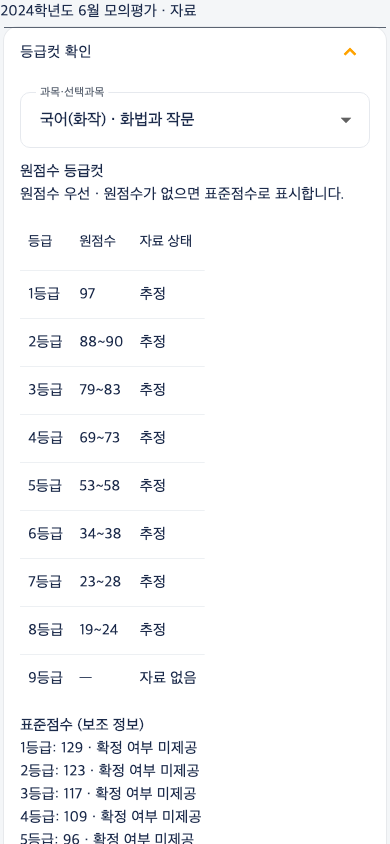
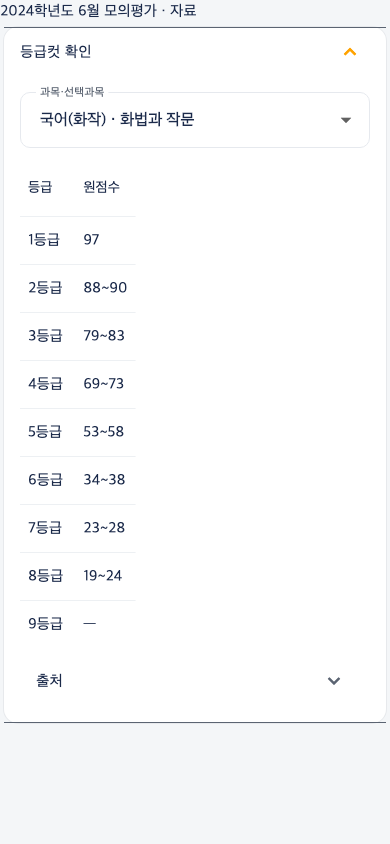
fix: simplify cutoff display and clarify shared math release coverage

diff --git a/lib/features/exams/cutoffs/grade_cutoff_panel.dart b/lib/features/exams/cutoffs/grade_cutoff_panel.dart
@@ -74,10 +74,7 @@ class _GradeCutoffPanelState extends ConsumerState<GradeCutoffPanel> {
                       : selected;
                   final chosen = rows.where((r) => r.key == key).toList()
                     ..sort((a, b) => a.grade.compareTo(b.grade));
-                  final scoreTypes = chosen
-                      .where((r) => r.scoreType != '자료 없음')
-                      .map((r) => r.scoreType)
-                      .toSet();
+                  final rawTable = chosen.any((r) => r.hasRaw);
                   if (chosen.isNotEmpty) {
                     WidgetsBinding.instance.addPostFrameCallback((_) {
                       if (mounted && expanded) record(chosen.first);
@@ -104,27 +101,18 @@ class _GradeCutoffPanelState extends ConsumerState<GradeCutoffPanel> {
                       ),
                       if (chosen.isNotEmpty) ...[
                         const SizedBox(height: 12),
-                        Text(
-                          '${scoreTypes.isEmpty ? '자료 없음' : scoreTypes.join(' · ')} 등급컷',
-                          style: const TextStyle(fontWeight: FontWeight.bold),
-                        ),
-                        const Text('원점수 우선 · 원점수가 없으면 표준점수로 표시합니다.'),
-                        const SizedBox(height: 8),
                         SingleChildScrollView(
                           scrollDirection: Axis.horizontal,
                           child: DataTable(
-                            columnSpacing: 16,
+                            columnSpacing: 20,
                             horizontalMargin: 8,
                             columns: [
                               const DataColumn(label: Text('등급')),
                               DataColumn(
-                                label: Text(
-                                  scoreTypes.length == 1
-                                      ? scoreTypes.first
-                                      : '점수',
-                                ),
+                                label: Text(rawTable ? '원점수' : '표준점수'),
                               ),
-                              const DataColumn(label: Text('자료 상태')),
+                              if (!rawTable)
+                                const DataColumn(label: Text('추정 원점수')),
                             ],
                             rows: [
                               for (final r in chosen)
@@ -133,75 +121,50 @@ class _GradeCutoffPanelState extends ConsumerState<GradeCutoffPanel> {
                                     DataCell(Text('${r.grade}등급')),
                                     DataCell(
                                       Text(
-                                        scoreTypes.length == 1
-                                            ? r.score
-                                            : '${r.scoreType} ${r.score}',
+                                        rawTable
+                                            ? (r.hasRaw ? r.score : '—')
+                                            : (r.data['standard_score']
+                                                      ?.toString() ??
+                                                  '—'),
                                       ),
                                     ),
-                                    DataCell(
-                                      Text(
-                                        r.certainty.replaceFirst(
-                                          '확정 여부 미제공',
-                                          '확정 여부\n미제공',
-                                        ),
-                                      ),
-                                    ),
+                                    if (!rawTable)
+                                      DataCell(Text(r.estimatedRaw)),
                                   ],
                                 ),
                             ],
                           ),
                         ),
-                        if (chosen.any(
-                          (r) => r.hasRaw && r.data['standard_score'] != null,
-                        )) ...[
-                          const SizedBox(height: 12),
-                          const Text(
-                            '표준점수 (보조 정보)',
-                            style: TextStyle(fontWeight: FontWeight.bold),
-                          ),
-                          for (final r in chosen.where(
-                            (r) => r.data['standard_score'] != null,
-                          ))
-                            Text(
-                              '${r.grade}등급: ${r.data['standard_score']} · ${GradeCutoff.certaintyLabel(r.data['standard_certainty'])}',
-                            ),
-                        ],
-                        const SizedBox(height: 12),
-                        const Text(
-                          '등급 경계는 해당 등급의 하한입니다. 범위는 원자료의 추정 범위입니다. 추정 원점수는 공식 확정 점수가 아닙니다.',
+                        const SizedBox(height: 8),
+                        ExpansionTile(
+                          title: const Text('출처'),
+                          children: [
+                            for (final url
+                                in chosen
+                                    .map((r) => r.data['source_url'])
+                                    .whereType<String>()
+                                    .toSet())
+                              ExternalLinkButton(
+                                uri: Uri.tryParse(url),
+                                label: '등급컷 원본 게시글',
+                              ),
+                            for (final url
+                                in chosen
+                                    .expand(
+                                      (r) => [
+                                        r.data['raw_source_url'],
+                                        r.data['standard_source_url'],
+                                        r.data['estimated_raw_source_url'],
+                                      ],
+                                    )
+                                    .whereType<String>()
+                                    .toSet())
+                              ExternalLinkButton(
+                                uri: Uri.tryParse(url),
+                                label: '점수 기준 원본 자료',
+                              ),
+                          ],
                         ),
-                        if (chosen.length < 9)
-                          const Text(
-                            '원자료에서 확인된 등급만 표시합니다. 누락된 경계는 임의 계산하지 않습니다.',
-                          ),
-                        for (final url
-                            in chosen
-                                .map((r) => r.data['source_url'])
-                                .whereType<String>()
-                                .toSet())
-                          ExternalLinkButton(
-                            uri: Uri.tryParse(url),
-                            label: '등급컷 원본 게시글',
-                          ),
-                        for (final url
-                            in chosen
-                                .expand(
-                                  (r) => [
-                                    r.data['raw_source_url'],
-                                    r.data['standard_source_url'],
-                                  ],
-                                )
-                                .whereType<String>()
-                                .toSet())
-                          ExternalLinkButton(
-                            uri: Uri.tryParse(url),
-                            label: '점수 기준 원본 자료',
-                          ),
-                        for (final entry in {
-                          for (final r in chosen)
-                            '${r.data['source_name']} · ${r.data['verified_at']?.toString().split('T').first ?? ''}',
-                        })
-                          Text(entry),
                       ],
                     ],
                   );

diff --git a/test/grade_cutoff_test.dart b/test/grade_cutoff_test.dart
@@ -42,6 +42,21 @@ void main() {
       expect(c.scoreType, '표준점수');
       expect(c.certainty, '확정');
       expect(GradeCutoff(row()).score, '—');
+      expect(c.estimatedRaw, '—');
+      expect(
+        GradeCutoff({...row(standard: 130), 'estimated_raw_score': 94})
+            .estimatedRaw,
+        '—',
+      );
+      expect(
+        GradeCutoff({
+          ...row(standard: 130),
+          'estimated_raw_score_min': 93,
+          'estimated_raw_score_max': 94,
+          'estimated_raw_source_url': 'https://example.org/cutoff',
+        }).estimatedRaw,
+        '93~94',
+      );
       expect(() => GradeCutoff(row(low: 93, high: 92)), throwsFormatException);
       expect(() => GradeCutoff(row(low: 93)), throwsFormatException);
       expect(() => GradeCutoff(row(raw: 101)), throwsFormatException);
@@ -100,7 +115,10 @@ void main() {
       await tester.tap(find.text('국어 · 언어와 매체').last);
       await tester.pumpAndSettle();
       expect(find.text('92~93'), findsOneWidget);
-      expect(find.text('표준점수 (보조 정보)'), findsOneWidget);
+      expect(find.text('표준점수 (보조 정보)'), findsNothing);
+      expect(find.text('자료 상태'), findsNothing);
+      expect(find.text('추정'), findsNothing);
+      expect(find.text('표준점수'), findsNothing);
       expect(tester.takeException(), isNull);
     },
   );

diff --git a/lib/features/exams/cutoffs/grade_cutoff.dart b/lib/features/exams/cutoffs/grade_cutoff.dart
@@ -27,6 +27,9 @@ class GradeCutoff {
       'raw_score_min',
       'raw_score_max',
       'standard_score',
+      'estimated_raw_score',
+      'estimated_raw_score_min',
+      'estimated_raw_score_max',
     ]) {
       final n = data[key];
       if (n != null &&
@@ -61,6 +64,23 @@ class GradeCutoff {
           ? '${data['raw_score_min']}~${data['raw_score_max']}'
           : data['standard_score']?.toString()) ??
       '—';
+
+  /// Supplementary estimate must have a source; never derive raw from standard score.
+  String get estimatedRaw {
+    if (data['estimated_raw_source_url'] is! String ||
+        !(data['estimated_raw_source_url'] as String).startsWith('https://')) {
+      return '—';
+    }
+    final exact = data['estimated_raw_score'];
+    final low = data['estimated_raw_score_min'];
+    final high = data['estimated_raw_score_max'];
+    if (exact is int && low == null && high == null) return '$exact';
+    if (exact == null && low is int && high is int && low <= high) {
+      return '$low~$high';
+    }
+    return '—';
+  }
+
   String get certainty => scoreType == '자료 없음'
       ? '자료 없음'
       : certaintyLabel(data[hasRaw ? 'raw_certainty' : 'standard_certainty']);

diff --git a/test/task19_math_service_status_test.dart b/test/task19_math_service_status_test.dart
@@ -10,6 +10,23 @@ void main() {
       'leaf_id': '22222222-2222-4222-8222-222222222222',
     },
   ];
+  test(
+    'release lookup applies to other universities without a name exception',
+    () {
+      for (final id in ['inha-exam', 'hanyang-exam', 'another-exam']) {
+        expect(
+          hasReleasedMathQuestion(
+            [
+              {...rows.single, 'essay_exam_id': id},
+            ],
+            id,
+            ['q1'],
+          ),
+          isTrue,
+        );
+      }
+    },
+  );
   test('Konkuk standalone release matches exact question, not track name', () {
     expect(hasReleasedMathQuestion(rows, exam, ['q1']), isTrue);
     expect(hasReleasedMathQuestion(rows, exam, ['q2']), isFalse);

diff --git a/test/task19_cutoff_capture_test.dart b/test/task19_cutoff_capture_test.dart
@@ -184,10 +184,7 @@ void main() {
         await tester.pumpAndSettle();
         await tester.tap(find.text(rows.first.label).last);
         await tester.pumpAndSettle();
-        expect(
-          find.text(source == 'study' ? '표준점수 등급컷' : '원점수 등급컷'),
-          findsOneWidget,
-        );
+        expect(find.text(source == 'study' ? '표준점수' : '원점수'), findsOneWidget);
         expect(analytics.events.length, 1);
         expect(analytics.events.single['source'], source);
         expect(analytics.events.single['exam_code'], id);

diff --git a/wiki/task19-owner-ui-followup-20261105.md b/wiki/task19-owner-ui-followup-20261105.md
@@ -1,0 +1,24 @@
+# TASK19 Owner 표시 정책 정정 — 2026-11-05
+
+## 결정 및 구현
+
+[기존 TASK19](task19-lab-ux-grade-cutoff-20261105.md)의 점수 출처·Registry 재사용·과거 결과 보존 원칙은 유지한다. Owner 추가 지시로 학생 화면의 자료 상태(추정/확정 여부 미제공)와 보조 표준점수 블록을 제거했다.
+
+- 원점수가 있는 선택과목: 등급·원점수만 표시한다. 원점수 범위는 그대로 보존한다.
+- 표준점수만 있는 선택과목: 등급·표준점수·추정 원점수를 구분한다. 출처가 확인된 추정값만 표시하고 표준점수에서 임의 환산하지 않는다.
+- 출처는 접힌 메뉴에서 조회한다. 내부 자료 상태·원본 출처 기록은 삭제하지 않는다.
+- 현재 검수 데이터의 표준점수 전용 120행에는 출처 검수된 추정 원점수가 없어 `—`로 표시한다. 추정값 표시 수신 처리는 준비됐지만 기존 SQL/RPC에는 별도 추정값 필드가 없으므로 **추정 원점수 데이터 연결은 미완료**다. 추가 출처 검수와 승인 대상 SQL 계약 보완 없이 숫자가 나타난다고 보고하지 않는다.
+
+## 서비스 준비중 범위 확인
+
+`source_catalog_page.dart`의 standaloneMathReady 및 `math_gateway.dart`의 hasReleasedMathQuestion은 대학명 예외 없이 공개 Catalog의 시험·문항 연결과 Provider 활성화를 확인한다. 건국대에만 적용한 처리가 아니다. 다른 대학 ID에도 동일하게 동작하는 회귀 검사를 추가했다.
+
+상경·사회 혼합형은 기존 serviceExamIdsProvider의 시험 전체 공개 계약을 따른다. 일부 Math 문항 공개를 혼합형 전체 공개로 간주하지 않는다. 따라서 **등록된 모든 시험의 제한을 무조건 해제한 상태는 아니다**. 기존 검수·근거·실행 경로가 충족되지 않은 시험을 사용 가능으로 표시하지 않는다. 이번 수정에서 운영 공개 범위·DB·Provider·이용권을 변경하지 않았다. 운영 확대 범위의 이전 근거는 [운영 연결 보고서](app58-expanded-production-connection-20261104.md)를 따른다.
+
+## 검증 및 인계
+
+- 관련 Flutter 화면/데이터/공통 공개 판별 10검사 PASS, analyze PASS.
+- 실제 데이터+mock 조회 계약 기반 자료·학습 화면 캡처를 확인했다. 실기기/운영 E2E로 계산하지 않는다.
+- [자료 화면](assets/task19/cutoff-materials.png), [학습 화면](assets/task19/cutoff-study.png).
+- 운영 SQL 미적용, 앱 신규 설치/배포 없음. APP58 산출물 보존.
+- 작업 시작 전 존재한 기존 TASK19 보고서의 외부 미커밋 수정 및 캐시 파일은 그대로 보존하고 이 후속 기록을 별도로 작성했다.

diff --git a/wiki/decisions.md b/wiki/decisions.md
@@ -960,3 +960,6 @@ Owner는 [기존 종합 수치 금지](final-feedback-ux-refinement-20261031.md)
 
 ## 2026-11-05 — TASK19 등급컷 원점수 우선·기존 게시글 우선
 Owner는 기존 LegendStudy 게시글을 우선 구조화하고 부족한 경우만 외부 공식 자료를 보완하도록 확정했다. 원점수(범위 포함) → 표준점수 → 자료 없음 순서, 원점수/표준점수 필드 및 추정/확정 상태 분리, 미확인값 NULL. 기존 시험/과목 Registry 재사용, 자료·학습 탭 동일 조회, 과거 채점 결과 소급 변경 금지. 학년도2024~26의6·9·수능 및2027의6·9 총11시험. 2027수능 제외. [기존 Mock 기준](day-8-d3-grade-result.md)을 변경하지 않는 [구현·보존 검토](task19-lab-ux-grade-cutoff-20261105.md). 운영 DB 적용과 Store 제출은 별도 승인이다.
+
+## 2026-11-05 — TASK19 학생용 등급컷 간소화
+Owner는 원점수 자료에 등급·원점수만, 표준점수 전용 자료에 표준점수·추정 원점수를 표시하도록 정정했다. 자료 상태/확정 여부 미제공/보조 표준점수 UI는 제거한다. 출처 기록은 내부 보존하며 미확보 추정값은 생성하지 않는다. [기존 결정의 UI 정정](task19-owner-ui-followup-20261105.md).

diff --git a/wiki/current-status.md b/wiki/current-status.md
@@ -2,6 +2,7 @@
 # Current Status
 
 ## TASK19 후속 업데이트 — PARTIAL
+[Owner 표시 정정](task19-owner-ui-followup-20261105.md): 자료 상태·보조 표준점수 제거. 원점수/표준점수 전용 표 분리, 추정 원점수 출처·DB 연결은 미완료. 대학 공통 Math 공개 판별이며 등록 시험 전체 무조건 해제는 아님.
 [LAB 안내·11시험 등급컷](task19-lab-ux-grade-cutoff-20261105.md): A 독립 커밋·43회귀 PASS. B Native 자료/학습 공통 조회·원점수 우선·SQL 후보 구현. 2,457행 중 점수2,212/미확인NULL245. 전체1,500 PASS/7 SKIP, 로컬DB 권한·원복 PASS. 운영/실기기·GA4 미검증. [SQL 승인 후보](../supabase/candidates/task19_grade_cutoff/README.md). APP58·승인 버전·운영·다른 PDF 브랜치 보존. [이전 품질 상태](task19-prior-status-snapshot-20261105.md).
 
 ## TASK16-M 최초·무료 성장 비교 — PARTIAL

diff --git a/wiki/log.md b/wiki/log.md
@@ -5721,3 +5721,5 @@ Owner 실제 화면에서 인하 재첨삭 본문·History 표시 확인(원래 
 ## 2026-11-05 — TASK19-A
 
 [베타 안내·standalone Math 상태](task19-lab-ux-grade-cutoff-20261105.md) 구현. 43개 로컬 회귀/analyze PASS. 운영 DB 읽기만, 실기기 미검증. B11시험 기존 Registry·출처 조사 진행.
+
+- 2026-11-05 TASK19 Owner 후속: 자료 상태/보조 표준점수 삭제, 출처 접기, 원점수·표준점수 전용 표 분리. 추정 원점수 연결 미완료를 구분. 모든 대학 공통 Math 공개 판별 회귀 추가. [상세](task19-owner-ui-followup-20261105.md).

diff --git a/wiki/index.md b/wiki/index.md
@@ -351,4 +351,6 @@ WEB 성장 대시보드·통합 History/결과: [정책·배포·검증범위](e
 
 ## TASK19 후속 업데이트
 
+[Owner 등급컷 표시 정정·대학 공통 공개 범위 확인](task19-owner-ui-followup-20261105.md).
+
 [LAB 베타 안내·건국 자연 상태·평가원 등급컷](task19-lab-ux-grade-cutoff-20261105.md). 기존 Mock 채점/자료/PDF/Analytics 경로를 함께 따른다.
